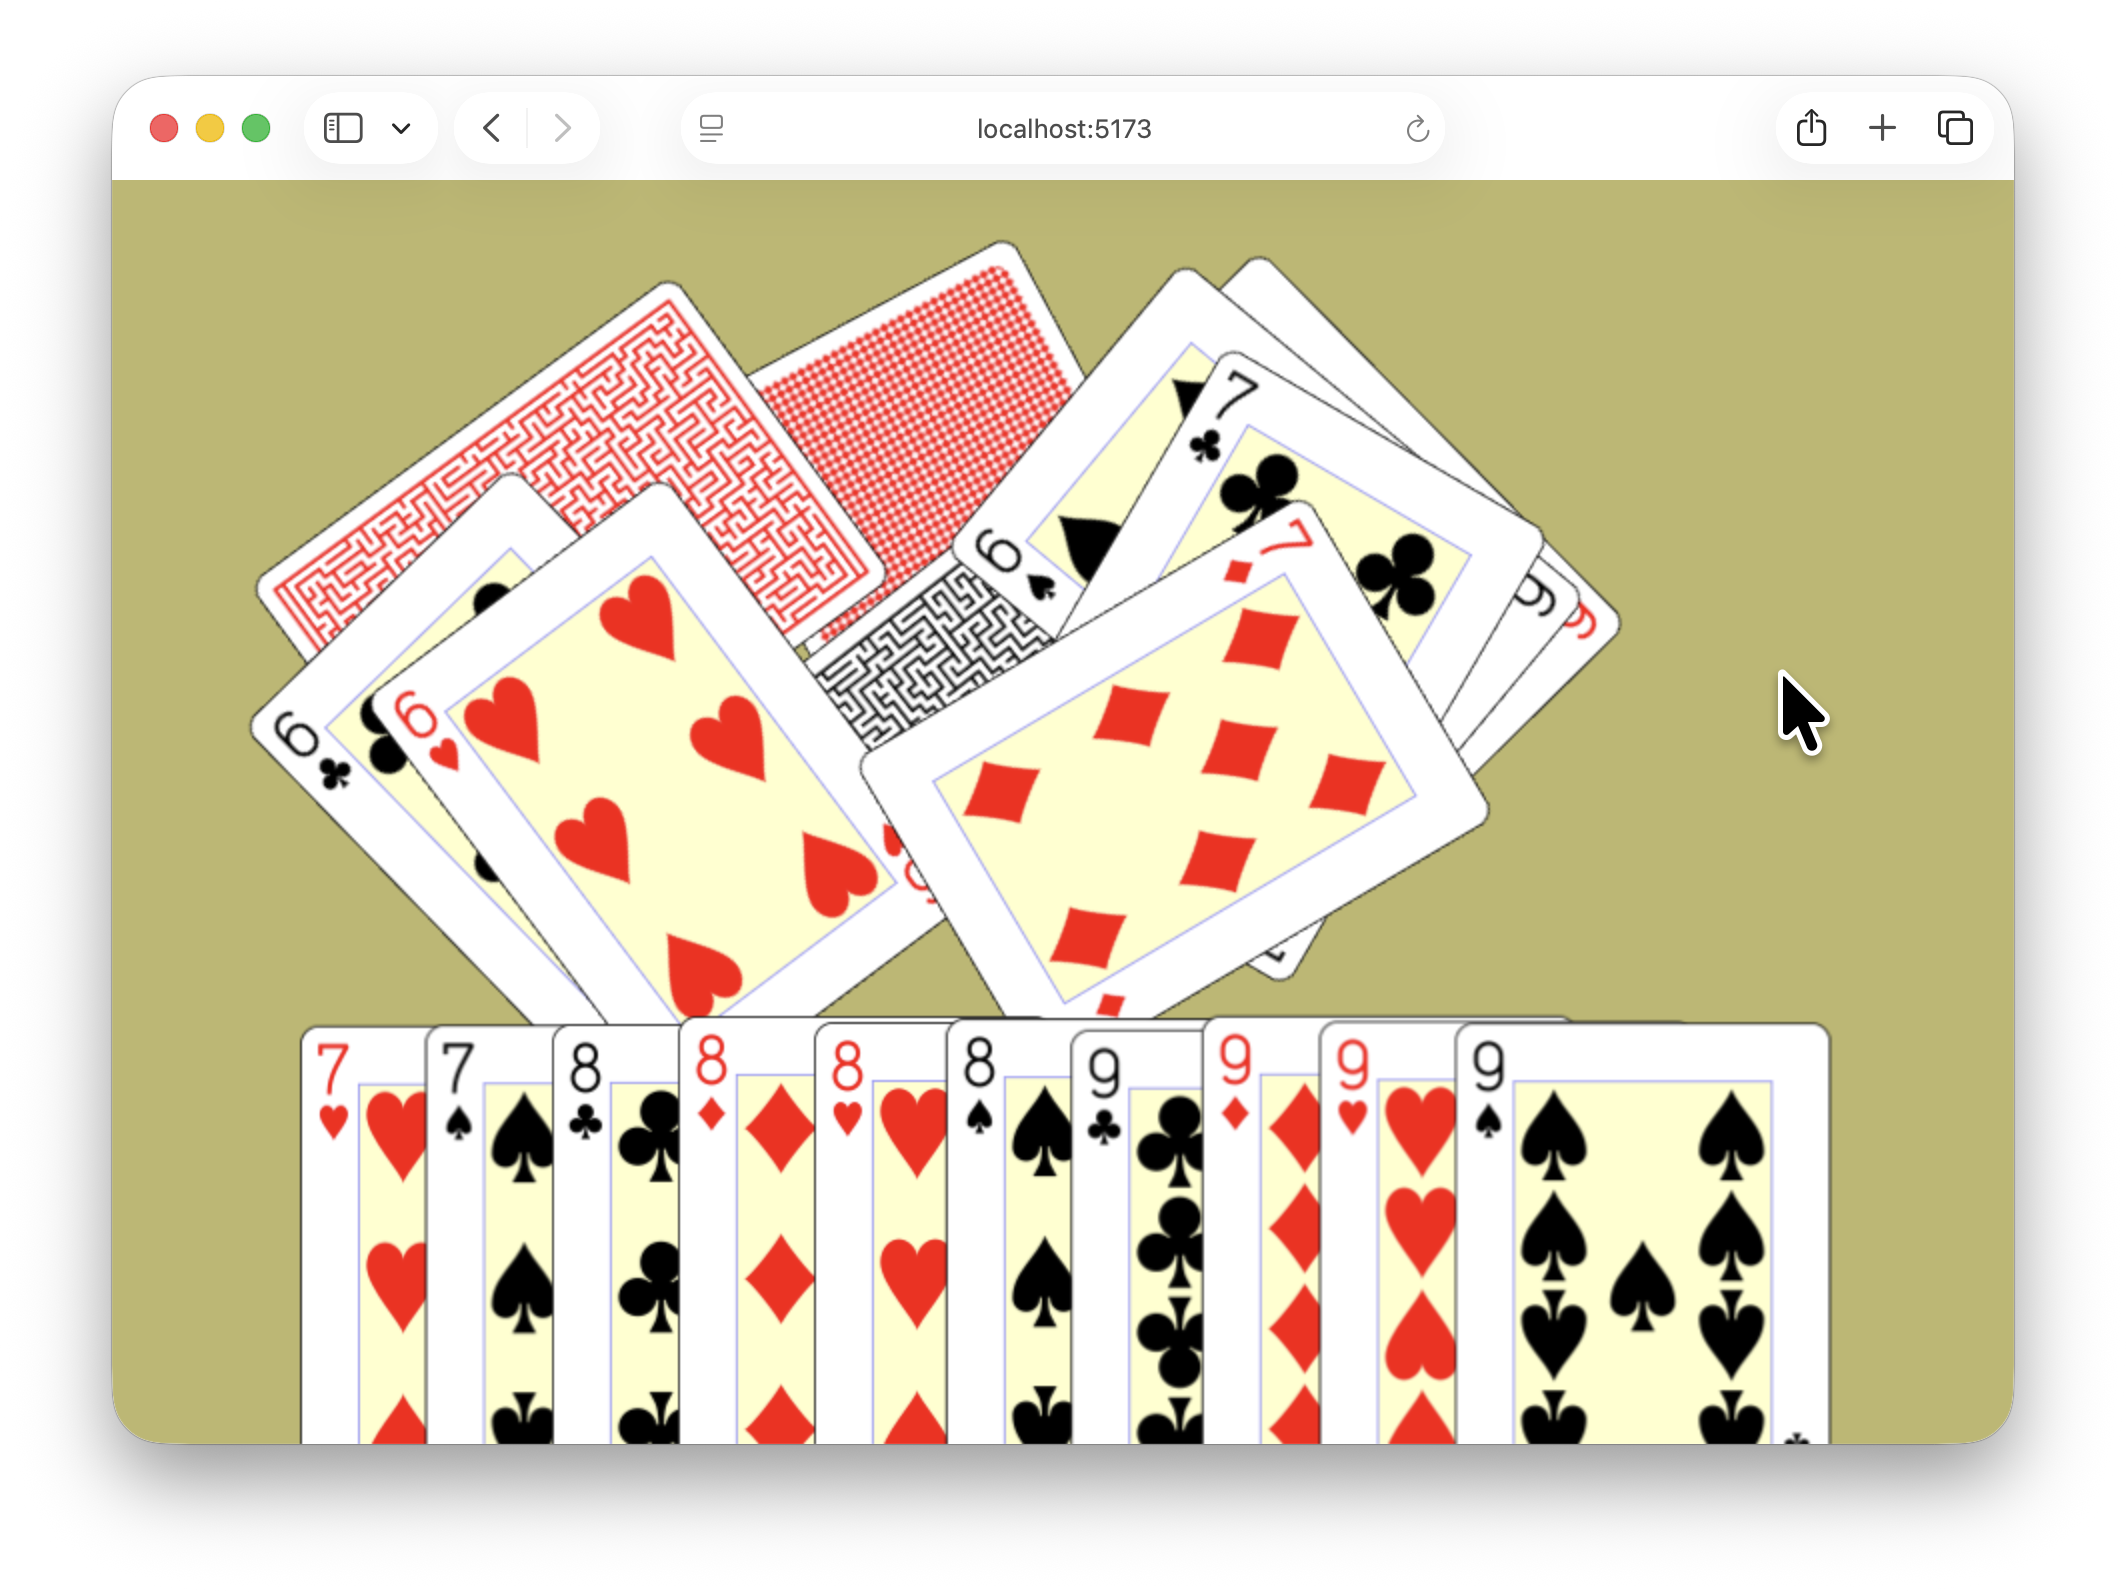
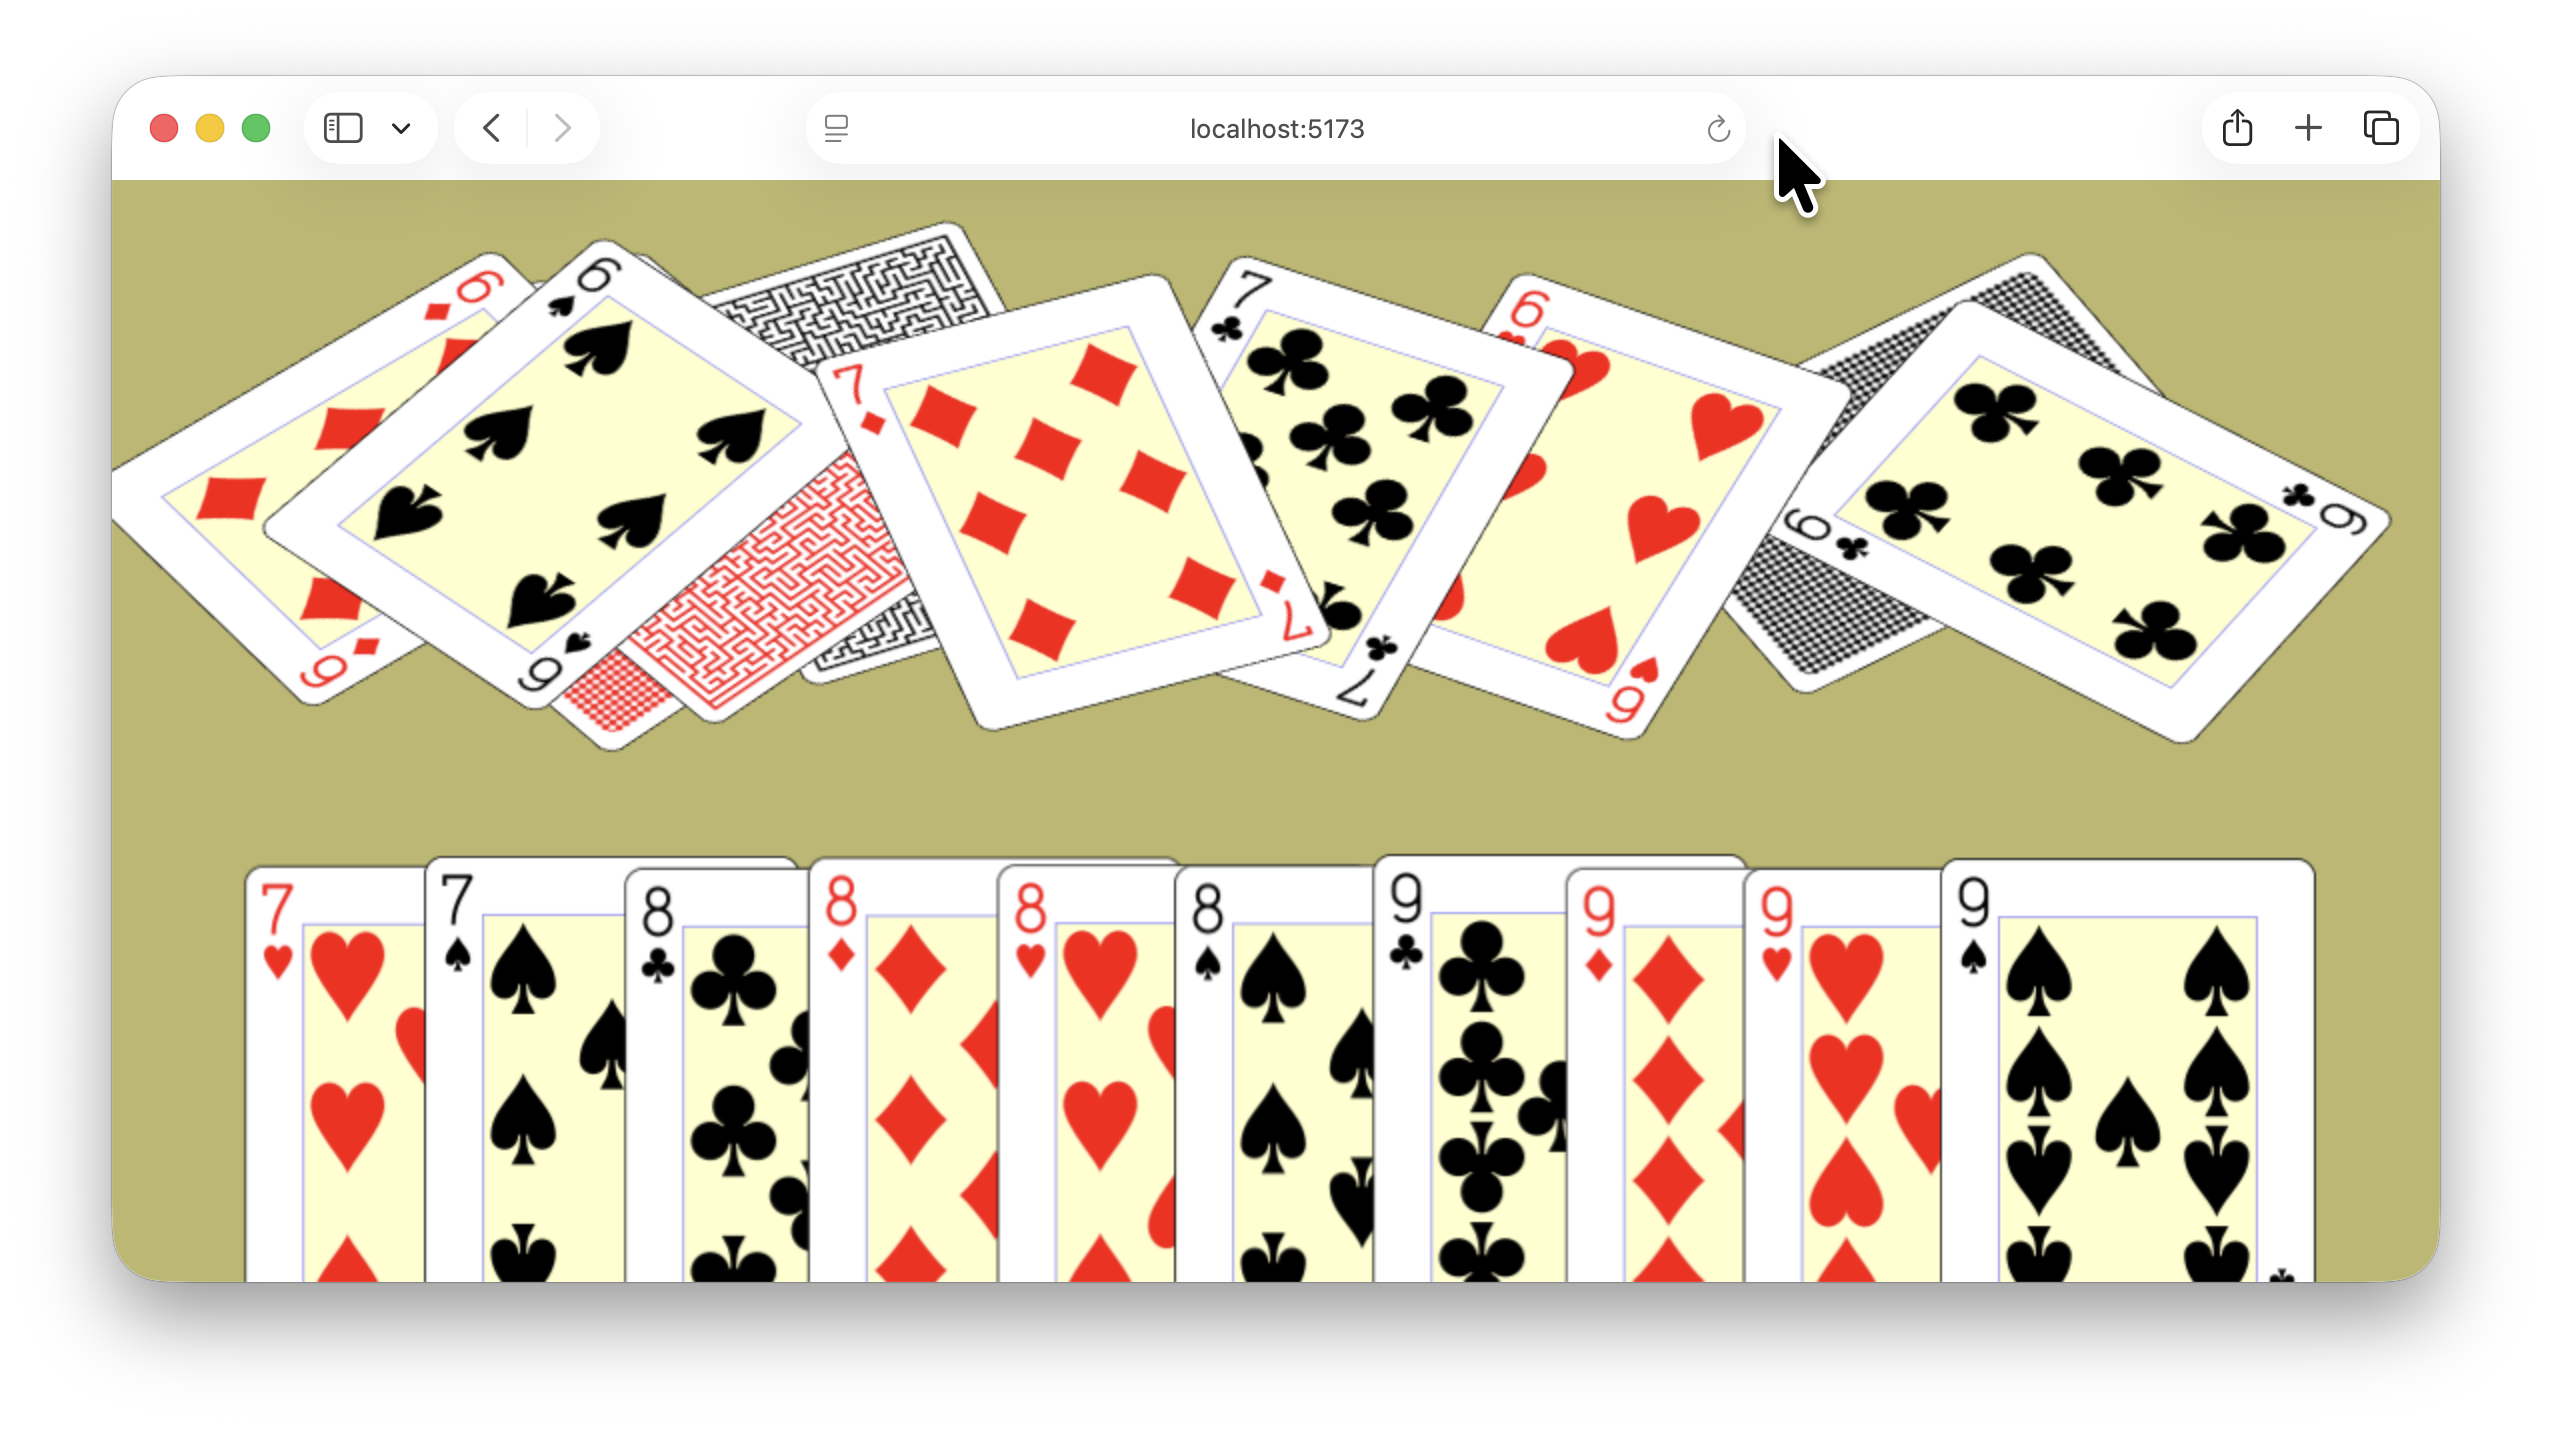
Create pseudo 3D effect by reducing scale.y

diff --git a/playing-cards-2-planes/PlaneHand.js b/playing-cards-2-planes/PlaneHand.js
@@ -35,31 +35,41 @@ export class PlaneHand extends Container {
     const totalCards = this.children.length;
     if (totalCards === 0) return;
 
-    // We want padding of CARD_WIDTH / 2 on both sides
-    const availableWidth = this.app.screen.width - CARD_WIDTH;
+    // Requirements:
+    // 1. Cards centered at bottom of screen
+    // 2. CARD_WIDTH/2 minimum padding on sides (accounting for pivot at center)
+    // 3. Max spacing between cards is CARD_WIDTH/2
 
-    // Calculate spacing between cards (max 0.5 * CARD_WIDTH)
-    let cardSpacing = Math.min(0.5 * CARD_WIDTH, availableWidth / (totalCards - 1 || 1));
+    const minPadding = CARD_WIDTH / 2;
+    const maxSpacing = CARD_WIDTH / 2;
 
-    // If cards don't fit, use minimum spacing that fits
+    // Available width for card spacing (excluding padding for card edges)
+    const availableWidth = this.app.screen.width - 2 * minPadding;
+
+    // Calculate spacing between cards
+    let cardSpacing = maxSpacing;
+
     if (totalCards > 1) {
-      const totalNeededWidth = (totalCards - 1) * cardSpacing + CARD_WIDTH;
-      if (totalNeededWidth > availableWidth) {
-        cardSpacing = (availableWidth - CARD_WIDTH) / (totalCards - 1);
+      // Total width needed with max spacing
+      const neededWidth = (totalCards - 1) * maxSpacing;
+
+      // If doesn't fit, reduce spacing
+      if (neededWidth > availableWidth) {
+        cardSpacing = availableWidth / (totalCards - 1);
       }
     }
 
-    // Calculate starting position (left padding + half card width since pivot is at center)
-    const startX = CARD_WIDTH;
+    // Center the cards
+    const totalWidth = totalCards > 1 ? (totalCards - 1) * cardSpacing : 0;
+    const firstCardX = this.app.screen.width / 2 - totalWidth / 2;
 
     this.children.forEach((card, index) => {
       // Random jitter of +/- 4 pixels
       const jitterX = Math.random() * 8 - 4;
       const jitterY = Math.random() * 8 - 4;
 
-      card.x = startX + index * cardSpacing + jitterX;
+      card.x = firstCardX + index * cardSpacing + jitterX;
       // Position so only 60% of card height is visible from the top
-      // Card pivot is at center, so bottom of visible area should be at screen bottom
       card.y = this.app.screen.height - 0.3 * CARD_HEIGHT + jitterY;
     });
   }

diff --git a/playing-cards-2-planes/PlaneTable.js b/playing-cards-2-planes/PlaneTable.js
@@ -6,10 +6,16 @@ export class PlaneTable extends Container {
     super();
 
     this.app = app;
+
+    // Apply perspective transform: compress vertically to simulate viewing from above
+    this.scale.y = 0.75;
+
+    // Move pivot to bottom center for proper perspective
+    this.pivot.y = 0;
   }
 
   resize() {
-    // PlaneTable occupies the whole screen
+    // PlaneTable positioned to account for perspective transform
     this.x = 0;
     this.y = 0;
   }
@@ -27,12 +33,8 @@ export class PlaneTable extends Container {
     // Random angle between -60 and +60 degrees
     const angle = Math.random() * 120 - 60;
 
+    // Cards stay flat - the container provides the 3D perspective
     const card = new Card(spriteSheet, textureKey, x, y, angle, null);
-
-    // Apply random 3D tilt effect
-    const tiltX = Math.random() * 30 - 15;
-    const tiltY = Math.random() * 30 - 15;
-    card.apply3DTilt(tiltX, tiltY);
 
     this.addChild(card);
 
